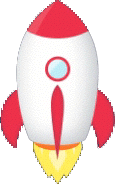
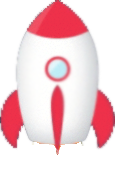
Add dynamic texture for player

diff --git a/cerulean_space/render/entity_renders/player_renderer.py b/cerulean_space/render/entity_renders/player_renderer.py
@@ -1,6 +1,6 @@
 from typing import NoReturn
 
-from pygame import Color, Surface
+from pygame import Color, Surface, Rect
 
 from cerulean_space.entity.player_entity import PlayerEntity
 from cerulean_space.render.entity_renders.entity_renderer import EntityRenderer
@@ -10,11 +10,17 @@ from cerulean_space.util.identifier import Identifier
 from cerulean_space.util.position_method import RELATIVE, ABSOLUTE
 
 player_texture = Identifier("player.png")
+fire_texture = Identifier("player_fire.png")
 
 
 class PlayerRenderer(EntityRenderer[PlayerEntity]):
     def __init__(self, texture_manager: TextureManager):
         super().__init__(texture_manager)
+        self.fire_textures = []
+        src_img = texture_manager.load_or_get_texture(fire_texture).convert_alpha()
+        for i in range(round(src_img.get_height() / 184)):
+            img = src_img.subsurface(Rect((0, i * 184), (115, 184)))
+            self.fire_textures.append(img)
         # self.texture.subsurface()
 
     def render(self, entity: PlayerEntity, game_renderer: GameRenderer) -> NoReturn:
@@ -26,4 +32,4 @@ class PlayerRenderer(EntityRenderer[PlayerEntity]):
         return player_texture
 
     def preprocess_texture(self, entity: PlayerEntity, surface: Surface) -> Surface:
-        return surface
+        return self.fire_textures[entity.tick_exist % 26]

diff --git a/cerulean_space/entity/player_entity.py b/cerulean_space/entity/player_entity.py
@@ -5,6 +5,8 @@ from pygame import Rect
 import cerulean_space
 from cerulean_space.constants import PLAYER_MAX_HEIGHT, PLAYER_MIN_HEIGHT, PLAYER_MIN_X, PLAYER_MAX_X
 from cerulean_space.entity.living_entity import LivingEntity
+from cerulean_space.render.particle.particle_parameter import ParticleParameter
+from cerulean_space.render.particle.particle_types import FIRE
 from cerulean_space.util.math.math_helper import MathHelper
 
 
@@ -31,6 +33,9 @@ class PlayerEntity(LivingEntity):
         if self.tick_exist % 30 == 0:
             self.forward_vec = self.min_speed + MathHelper.cutoff(self.forward_vec * 0.7, self.min_speed,
                                                                   self.min_speed)
+        # self.world.add_particle(FIRE,
+        #                         ParticleParameter(self.get_x(), self.get_y() - self.bounding_box.height / 2, self.velocity * -self.forward_vec, 10))
+
         if self.get_y() >= PLAYER_MAX_HEIGHT:
             self.world.game_win()
         self.set_pos((MathHelper.max(MathHelper.min(self.get_x(), PLAYER_MAX_X), PLAYER_MIN_X),

diff --git a/cerulean_space/render/particle/particle_types.py b/cerulean_space/render/particle/particle_types.py
@@ -2,6 +2,7 @@ from typing import Callable, TypeVar, Generic, List, Any
 
 from pygame import Vector2, Surface
 
+from cerulean_space.render.particle.fire_particle import FireParticle
 from cerulean_space.render.particle.particle import Particle
 from cerulean_space.render.particle.particle_parameter import ParticleParameter
 from cerulean_space.render.particle.plane_chunk_particle import PlaneChunkParticle
@@ -40,3 +41,4 @@ def load_particle_textures(texture_manager: TextureManager):
 
 ROCK_CHUNK = register_particle_type("rock_chunk", RockChunkParticle)
 PLANE_CHUNK = register_particle_type("plane_chunk", PlaneChunkParticle)
+FIRE = register_particle_type("fire", FireParticle)

diff --git a/cerulean_space/render/particle/fire_particle.py b/cerulean_space/render/particle/fire_particle.py
@@ -1,0 +1,6 @@
+from cerulean_space.render.particle.particle import Particle
+
+
+class FireParticle(Particle):
+    def __init__(self, particle_type, world, parameter):
+        super().__init__(particle_type, world, parameter)
